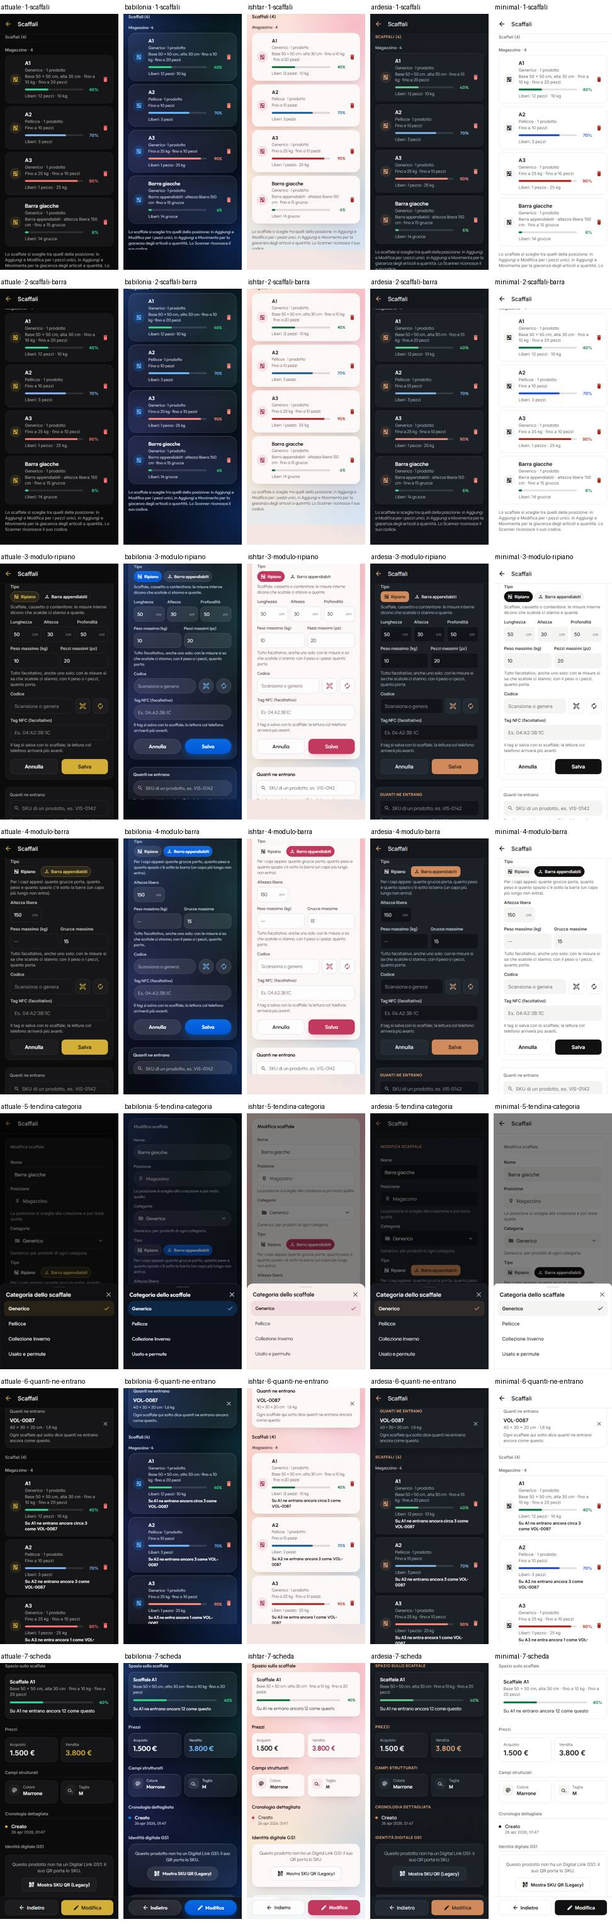
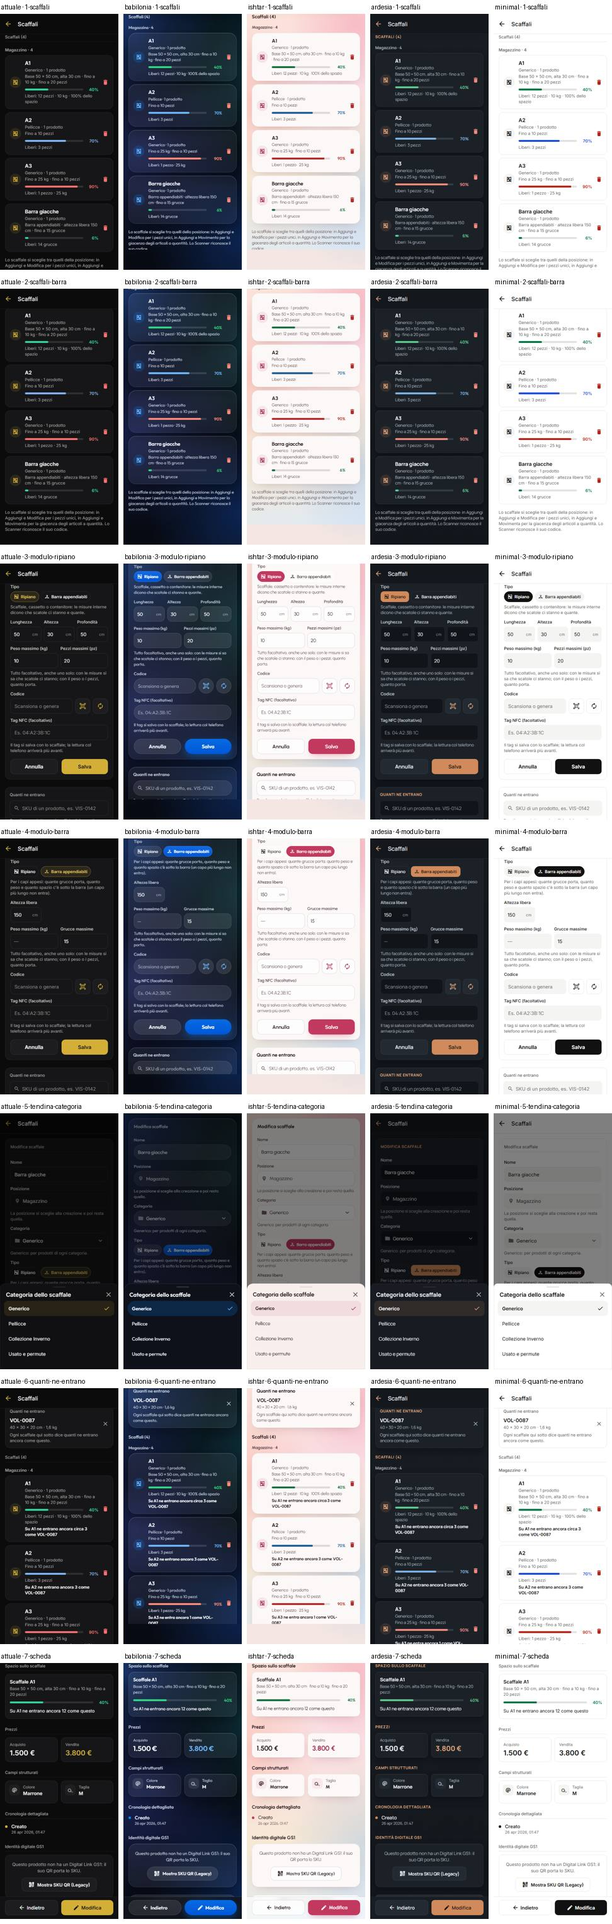
fix(magazzino): S2 correzioni del revisore (ticket 14)
- L'Altezza tolta dal costruttore del modulo non torna: il layout ricorda
  in `lateFields` (facoltativo, salvato col prossimo «Salva», version
  invariata) che l'ha già proposta; con le misure tutte nascoste nasce
  nascosta. Prova nuova s2-altezza-tolta.
- Un campo di sistema abbinato per nome da un modello («Altezza» di
  Mobili, «Peso») entra nel layout come campo Base, non personalizzato
  (appendLayoutFields con gli id di sistema).
- «Quanti ne entrano»: 0 se un limite è già pieno anche quando al
  prodotto manca quel dato (prima «Pieno» accanto a «ne entrano 15»).
- Modulo dello scaffale: un numero che si arrotonda a 0 si rifiuta invece
  di salvarsi come «nessun limite».
- «Liberi» dice anche lo spazio («60% dello spazio»); «serve il peso»;
  commento di updateShelf; la ricerca della tendina si svuota chiudendo.

diff --git a/__tests__/shelves.test.ts b/__tests__/shelves.test.ts
@@ -425,6 +425,11 @@ describe('capacità degli scaffali (S2)', () => {
     const barra = { kind: 'barra' as const, maxPieces: 15, height: 150 };
     expect(fitCount(barra, box(110, 60), { pieces: 15, weight: 0, volume: 0 })).toEqual({ kind: 'numero', count: 0, by: 'pezzi' });
     expect(fitCount(barra, box(160), empty)).toEqual({ kind: 'non-entra', reason: 'è lungo 160 cm, sotto la barra ce ne sono 150' });
+    // Revisore di S2: un limite già pieno vale 0 anche se al prodotto manca il dato per quel limite
+    expect(fitCount(ripiano, box(), { pieces: 5, weight: 12, volume: 0 })).toEqual({ kind: 'numero', count: 0, by: 'peso' });
+    expect(fitCount(ripiano, box(), { pieces: 5, weight: 0, volume: 80000 })).toEqual({ kind: 'numero', count: 0, by: 'volume' });
+    expect(fitCount({ maxWeight: 10 }, box(), { pieces: 0, weight: 10, volume: 0 })).toEqual({ kind: 'numero', count: 0, by: 'peso' });
+    expect(fitCount({ maxWeight: 10 }, box(), { pieces: 0, weight: 9.9, volume: 0 })).toEqual({ kind: 'non-calcolabile', missing: 'peso' });
   });
 
   it('testi in italiano semplice, senza sigle', () => {
@@ -434,7 +439,8 @@ describe('capacità degli scaffali (S2)', () => {
     expect(fitCountText({ kind: 'numero', count: 0, by: 'pezzi' }, 'A1')).toBe('Su A1 non ne entrano altri: pezzi al massimo');
     expect(fitCountText({ kind: 'non-entra', reason: 'un lato di 60 cm è più grande di 50 cm' }, 'A1')).toBe('Su A1 non entra: un lato di 60 cm è più grande di 50 cm');
     expect(fitCountText({ kind: 'nessun-limite' }, 'A1')).toBe('A1: nessun limite');
-    expect(fitCountText({ kind: 'non-calcolabile', missing: 'peso' }, 'A1')).toBe('A1: per sapere quanti ne entrano servono il peso del prodotto');
+    expect(fitCountText({ kind: 'non-calcolabile', missing: 'peso' }, 'A1')).toBe('A1: per sapere quanti ne entrano serve il peso del prodotto');
+    expect(fitCountText({ kind: 'non-calcolabile', missing: 'misure' }, 'A1')).toBe('A1: per sapere quanti ne entrano servono le tre misure del prodotto');
     expect(capacityText(ripiano)).toBe('Base 50 × 50 cm, alta 30 cm · fino a 10 kg · fino a 20 pezzi');
     expect(capacityText({ length: 50, depth: 40 })).toBe('Base 50 × 40 cm');
     expect(capacityText({ length: 50, height: 30 })).toBe('Lunghezza 50 cm · altezza 30 cm');
@@ -442,9 +448,12 @@ describe('capacità degli scaffali (S2)', () => {
     expect(capacityText({ kind: 'barra', height: 150, maxPieces: 15 })).toBe('Barra appendiabiti · altezza libera 150 cm · fino a 15 grucce');
     expect(capacityText({ kind: 'barra' })).toBe('Barra appendiabiti');
     expect(capacityText({})).toBe('');
-    expect(freeText(ripiano, { pieces: 9, weight: 4.5, volume: 0 })).toBe('Liberi: 11 pezzi · 5,5 kg');
+    expect(freeText(ripiano, { pieces: 9, weight: 4.5, volume: 0 })).toBe('Liberi: 11 pezzi · 5,5 kg · 100% dello spazio');
+    expect(freeText({ maxPieces: 20, maxWeight: 10 }, { pieces: 9, weight: 4.5, volume: 0 })).toBe('Liberi: 11 pezzi · 5,5 kg');
     expect(freeText({ kind: 'barra', maxPieces: 15 }, { pieces: 16, weight: 0, volume: 0 })).toBe('Liberi: 0 grucce');
-    expect(freeText({ length: 50, depth: 50, height: 30 }, { pieces: 1, weight: 0, volume: 10 })).toBe('');
+    expect(freeText({ length: 50, depth: 50, height: 30 }, { pieces: 1, weight: 0, volume: 30000 })).toBe('Liberi: 60% dello spazio');
+    expect(freeText({ length: 50, depth: 50 }, { pieces: 1, weight: 0, volume: 10 })).toBe('');
+    expect(freeText(ripiano, { pieces: 1, weight: 1, volume: 80000 })).toBe('Liberi: 19 pezzi · 9 kg · 0% dello spazio');
     expect(fillText({ percent: 45, band: 'verde', full: false, by: 'pezzi' })).toBe('45%');
     expect(fillText({ percent: 100, band: 'rosso', full: true, by: 'pezzi' })).toBe('Pieno');
     expect(fillText({ percent: 110, band: 'rosso', full: true, by: 'peso' })).toBe('Pieno (110%)');
@@ -461,5 +470,8 @@ describe('capacità degli scaffali (S2)', () => {
     expect(capacityFromForm('ripiano', { maxPieces: '2,5' })).toEqual({ error: 'Pezzi massimi: scrivi un numero intero.' });
     expect(capacityFromForm('barra', { length: 'x', maxPieces: '15', height: '150' })).toEqual({ capacity: { kind: 'barra', height: 150, maxPieces: 15 } });
     expect(capacityFromForm('barra', { maxPieces: '0' })).toEqual({ error: 'Grucce massime: scrivi un numero maggiore di zero, oppure lascialo vuoto.' });
+    // Revisore di S2: un numero che si arrotonda a 0 non si salva in silenzio come «nessun limite»
+    expect(capacityFromForm('ripiano', { maxWeight: '0,0004' }).error).toMatch(/^Peso massimo: /);
+    expect(capacityFromForm('ripiano', { maxWeight: '0,0006' })).toEqual({ capacity: { maxWeight: 0.001 } });
   });
 });

diff --git a/utils/shelves.ts b/utils/shelves.ts
@@ -528,17 +528,21 @@ export function fitCount(shelf: ShelfCapacity, product: Measured, load: ShelfLoa
   if (!fit.fits) return { kind: 'non-entra', reason: fit.reason };
   const counts: [FillBy, number][] = [];
   if (positive(shelf.maxPieces)) counts.push(['pezzi', floor(shelf.maxPieces - load.pieces)]);
-  const weightLimit = positive(shelf.maxWeight);
-  if (positive(shelf.maxWeight) && positive(product.weight)) counts.push(['peso', floor((shelf.maxWeight - load.weight) / product.weight)]);
+  const weightLimit = positive(shelf.maxWeight) ? shelf.maxWeight : undefined;
+  // Un limite già pieno vale 0 anche se al prodotto manca il dato per quel limite (revisore di S2: «Pieno» accanto a
+  // «ne entrano ancora 15» si contraddicevano)
+  if (weightLimit != null && positive(product.weight)) counts.push(['peso', floor((weightLimit - load.weight) / product.weight)]);
+  else if (weightLimit != null && load.weight >= weightLimit - EPS) counts.push(['peso', 0]);
   const room = shelfVolume(shelf);
   const one = productVolume(product);
   if (room != null && one != null) counts.push(['volume', floor((room - load.volume) / one)]);
+  else if (room != null && load.volume >= room - EPS) counts.push(['volume', 0]);
   if (counts.length) {
     const [by, count] = counts.reduce((a, b) => (b[1] < a[1] ? b : a));
     return { kind: 'numero', count, by };
   }
-  if (!weightLimit && room == null) return { kind: 'nessun-limite' };
-  const missing = weightLimit && room != null ? 'peso e misure' : weightLimit ? 'peso' : 'misure';
+  if (weightLimit == null && room == null) return { kind: 'nessun-limite' };
+  const missing = weightLimit != null && room != null ? 'peso e misure' : weightLimit != null ? 'peso' : 'misure';
   return { kind: 'non-calcolabile', missing };
 }
 
@@ -555,7 +559,7 @@ export function fitCountText(result: FitCount, shelfName: string, what = 'come q
     case 'nessun-limite':
       return `${shelfName}: nessun limite`;
     case 'non-calcolabile':
-      return `${shelfName}: per sapere quanti ne entrano servono ${result.missing === 'peso' ? 'il peso' : result.missing === 'misure' ? 'le tre misure' : 'il peso o le tre misure'} del prodotto`;
+      return `${shelfName}: per sapere quanti ne entrano ${result.missing === 'peso' ? 'serve il peso' : result.missing === 'misure' ? 'servono le tre misure' : 'servono il peso o le tre misure'} del prodotto`;
     case 'numero': {
       const { count, by } = result;
       if (count === 0) {
@@ -597,7 +601,10 @@ export function capacityText(shelf: ShelfCapacity): string {
 /** Percentuale scritta accanto alla barra (UX0: il colore da solo non basta): «72%», «Pieno», «Pieno (110%)». */
 export const fillText = (fill: FillLevel): string => (!fill.full ? `${fill.percent}%` : fill.percent > 100 ? `Pieno (${fill.percent}%)` : 'Pieno');
 
-/** Spazio libero in parole, per pezzi e peso: «Liberi: 11 pezzi · 5,5 kg». '' senza questi limiti. */
+/**
+ * Spazio libero in parole: «Liberi: 11 pezzi · 5,5 kg · 60% dello spazio» (il volume in percentuale, non in cm³; quante
+ * scatole ci stanno lo dice `fitCount` con un prodotto). '' senza limiti.
+ */
 export function freeText(shelf: ShelfCapacity, load: ShelfLoad): string {
   const barra = shelf.kind === 'barra';
   const parts: string[] = [];
@@ -606,6 +613,8 @@ export function freeText(shelf: ShelfCapacity, load: ShelfLoad): string {
     parts.push(`${formatNumber(free)} ${piecesWord(free, barra)}`);
   }
   if (positive(shelf.maxWeight)) parts.push(kg(Math.max(0, round3(shelf.maxWeight - load.weight))));
+  const room = shelfVolume(shelf);
+  if (room != null) parts.push(`${floor(((room - load.volume) / room) * 100)}% dello spazio`);
   return parts.length ? `Liberi: ${parts.join(' · ')}` : '';
 }
 
@@ -638,7 +647,9 @@ export function capacityFromForm(
     if (kind === 'barra' && (key === 'length' || key === 'depth')) continue;
     const raw = (texts[key] ?? '').trim();
     if (!raw) continue;
-    const value = parseNumber(raw);
+    const parsed = parseNumber(raw);
+    // Arrotondato come si salva: «0,0004» diventerebbe 0 e lo scaffale resterebbe senza quel limite senza dirlo
+    const value = parsed == null ? undefined : round3(parsed);
     const name = capacityLabel(key, kind);
     if (value == null || !(value > 0)) return { error: `${name}: scrivi un numero maggiore di zero, oppure lascialo vuoto.` };
     if (key === 'maxPieces' && !Number.isInteger(value)) return { error: `${name}: scrivi un numero intero.` };

diff --git a/contexts/LayoutContext.tsx b/contexts/LayoutContext.tsx
@@ -4,7 +4,7 @@ import React, { createContext, useContext, useState, useEffect, ReactNode, useRe
 import AsyncStorage from '@react-native-async-storage/async-storage';
 import { useAuth } from './AuthContext';
 import { appendLayoutFields } from '../utils/templateFields';
-import { withLateBaseFields } from '../utils/templateFields';
+import { LATE_BASE_FIELD_IDS, withLateBaseFields } from '../utils/templateFields';
 
 // Types
 export type FieldSize = 'small' | 'medium' | 'full'; // 33%, 50%, 100%
@@ -21,6 +21,8 @@ export interface LayoutField {
 export interface LayoutConfig {
     fields: LayoutField[];
     version: number;
+    /** S2: campi Base nati dopo già proposti a questo layout (`withLateBaseFields`): tolti dall'utente non tornano. */
+    lateFields?: string[];
 }
 
 // Layout fields rely on CustomFieldsContext for their base definitions (name, icon).
@@ -56,6 +58,7 @@ const DEFAULT_LAYOUT: LayoutConfig = {
         { id: 'technicalNotes', type: 'base', size: 'full', visible: true },
     ],
     version: 4, // Fix sku full per banda nera in Add
+    lateFields: [...LATE_BASE_FIELD_IDS], // S2: l'Altezza c'è già qui sopra
 };
 
 // Titoli delle sezioni predefinite con l'iniziale maiuscola (ritocco del ticket 08), solo quando si mostrano: i dati
@@ -84,7 +87,7 @@ interface LayoutContextType {
     updateFieldSize: (fieldId: string, size: FieldSize) => void;
     toggleFieldVisibility: (fieldId: string) => void;
     addFieldToLayout: (field: LayoutField) => void;
-    appendToLayout: (ids: string[], size?: FieldSize) => Promise<LayoutField[]>;
+    appendToLayout: (ids: string[], size?: FieldSize, baseIds?: string[]) => Promise<LayoutField[]>;
     removeFieldFromLayout: (fieldId: string) => void;
     applyTemplate: (templateFields: LayoutField[]) => void;
 
@@ -131,8 +134,12 @@ export function LayoutProvider({ children }: { children: ReactNode }) {
                 } else {
                     // S2 (ticket 14): «Altezza» anche nei layout salvati prima, solo in memoria: il layout salvato non
                     // si riscrive e la `version` non cambia (vincolo 1 di map-3); si salva con il prossimo «Salva»
-                    const fields = Array.isArray(parsed.fields) ? withLateBaseFields(parsed.fields) : parsed.fields;
-                    setLayout(fields === parsed.fields ? parsed : { ...parsed, fields });
+                    // `lateFields` ricorda (in memoria, salvato col prossimo «Salva») che l'Altezza è stata proposta: tolta
+                    // dall'utente non torna (revisore di S2)
+                    const offered: string[] = Array.isArray(parsed.lateFields) ? parsed.lateFields : [];
+                    const fields = Array.isArray(parsed.fields) ? withLateBaseFields(parsed.fields, offered) : parsed.fields;
+                    const allOffered = LATE_BASE_FIELD_IDS.every((id) => offered.includes(id));
+                    setLayout(fields === parsed.fields && allOffered ? parsed : { ...parsed, fields, lateFields: [...new Set([...offered, ...LATE_BASE_FIELD_IDS])] });
                 }
             }
         } catch (error) {
@@ -189,8 +196,8 @@ export function LayoutProvider({ children }: { children: ReactNode }) {
 
     // Mette in fondo al layout i campi che mancano e lo salva subito (campi nuovi e modelli: D12, P11).
     // Parte dal layout più recente (`layoutRef`), così più chiamate di seguito non si sovrascrivono.
-    const appendToLayout = async (ids: string[], size: FieldSize = 'medium') => {
-        const next = { ...layoutRef.current, fields: appendLayoutFields(layoutRef.current.fields, ids, size) };
+    const appendToLayout = async (ids: string[], size: FieldSize = 'medium', baseIds: string[] = []) => {
+        const next = { ...layoutRef.current, fields: appendLayoutFields(layoutRef.current.fields, ids, size, baseIds) };
         layoutRef.current = next;
         setLayout(next);
         if (organizationId) await AsyncStorage.setItem(`${STORAGE_KEY}:${organizationId}`, JSON.stringify(next));

diff --git a/utils/templateFields.ts b/utils/templateFields.ts
@@ -17,10 +17,15 @@ export function matchTemplateFields<T extends { name: string }>(
     .map((field) => ({ field, existingId: byName.get(key(field.name)) }));
 }
 
-/** Aggiunge in fondo al layout i campi che non ci sono già, visibili e della misura data. */
-export function appendLayoutFields(current: readonly LayoutField[], ids: readonly string[], size: FieldSize = 'medium'): LayoutField[] {
+/**
+ * Aggiunge in fondo al layout i campi che non ci sono già, visibili e della misura data. `baseIds`: i campi di sistema
+ * (un modello che abbina per nome «Altezza» o «Peso» a un campo Base lo mette come Base, non come personalizzato:
+ * altrimenti Aggiungi lo salverebbe nei dati personalizzati e non nel campo del prodotto).
+ */
+export function appendLayoutFields(current: readonly LayoutField[], ids: readonly string[], size: FieldSize = 'medium', baseIds: readonly string[] = []): LayoutField[] {
   const present = new Set(current.map((f) => f.id));
-  const added = [...new Set(ids)].filter((id) => !present.has(id)).map((id) => ({ id, type: 'custom' as const, size, visible: true }));
+  const added = [...new Set(ids)].filter((id) => !present.has(id))
+    .map((id) => ({ id, type: baseIds.includes(id) ? 'base' as const : 'custom' as const, size, visible: true }));
   return [...current, ...added];
 }
 
@@ -31,19 +36,24 @@ export function appendLayoutFields(current: readonly LayoutField[], ids: readonl
 const LATE_BASE_FIELDS: { id: string; after: readonly string[]; size: FieldSize }[] = [
   { id: 'height', after: ['length', 'width', 'weight'], size: 'small' },
 ];
+/** Id dei campi Base nati dopo: il layout li ricorda in `lateFields` una volta proposti. */
+export const LATE_BASE_FIELD_IDS: readonly string[] = LATE_BASE_FIELDS.map((f) => f.id);
 
 /**
  * Layout letto con i campi Base nuovi, **solo in memoria**: chi lo chiama non lo riscrive e la `version` non cambia
  * (vincolo 1 di map-3, che sostituirebbe il modulo dell'utente). Stesso array se non manca niente.
+ * `offered`: campi già proposti a questo layout (`lateFields` salvato): un campo che l'utente ha tolto non torna.
+ * Il campo nuovo è visibile se lo è almeno una delle misure accanto (misure tutte nascoste: nascosto anche lui).
  */
-export function withLateBaseFields(fields: LayoutField[]): LayoutField[] {
+export function withLateBaseFields(fields: LayoutField[], offered: readonly string[] = []): LayoutField[] {
   let out = fields;
   for (const late of LATE_BASE_FIELDS) {
-    if (out.some((f) => f.id === late.id)) continue;
+    if (offered.includes(late.id) || out.some((f) => f.id === late.id)) continue;
     let at = -1;
     out.forEach((f, i) => { if (late.after.includes(f.id)) at = i; });
     if (at < 0) continue;
-    out = [...out.slice(0, at + 1), { id: late.id, type: 'base', size: late.size, visible: true }, ...out.slice(at + 1)];
+    const visible = out.some((f) => late.after.includes(f.id) && f.visible);
+    out = [...out.slice(0, at + 1), { id: late.id, type: 'base', size: late.size, visible }, ...out.slice(at + 1)];
   }
   return out;
 }

diff --git a/__tests__/templateFields.test.ts b/__tests__/templateFields.test.ts
@@ -1,4 +1,4 @@
-import { appendLayoutFields, matchTemplateFields, withLateBaseFields } from '../utils/templateFields';
+import { appendLayoutFields, LATE_BASE_FIELD_IDS, matchTemplateFields, withLateBaseFields } from '../utils/templateFields';
 
 describe('matchTemplateFields (D12)', () => {
   const existing = [
@@ -22,6 +22,10 @@ describe('appendLayoutFields (D12, P11)', () => {
     expect(out[1]).toEqual(current[1]); // quello già presente non cambia
     expect(out[2]).toEqual({ id: 'f9', type: 'custom', size: 'medium', visible: true });
   });
+  it('revisore di S2: un campo di sistema abbinato da un modello entra come Base', () => {
+    const out = appendLayoutFields(current, ['height', 'f9'], 'medium', ['height', 'weight']);
+    expect(out.slice(2)).toEqual([{ id: 'height', type: 'base', size: 'medium', visible: true }, { id: 'f9', type: 'custom', size: 'medium', visible: true }]);
+  });
 });
 
 describe('withLateBaseFields (S2, «Altezza» nei layout salvati prima)', () => {
@@ -39,5 +43,14 @@ describe('withLateBaseFields (S2, «Altezza» nei layout salvati prima)', () => 
     expect(withLateBaseFields(withHeight)).toBe(withHeight);
     const noMeasures = [f('sku'), f('technicalNotes')];
     expect(withLateBaseFields(noMeasures)).toBe(noMeasures);
+  });
+  it('revisore di S2: tolta dall’utente non torna; con le misure tutte nascoste nasce nascosta', () => {
+    expect(LATE_BASE_FIELD_IDS).toEqual(['height']);
+    const removed = [f('length'), f('width'), f('weight')];
+    expect(withLateBaseFields(removed, ['height'])).toBe(removed);
+    const hidden = [f('length', 'base', false), f('width', 'base', false), f('weight', 'base', false)];
+    expect(withLateBaseFields(hidden)[3]).toEqual({ id: 'height', type: 'base', size: 'small', visible: false });
+    const oneVisible = [f('length', 'base', false), f('weight')];
+    expect(withLateBaseFields(oneVisible)[2].visible).toBe(true);
   });
 });

diff --git a/components/CategorySelect.tsx b/components/CategorySelect.tsx
@@ -39,10 +39,13 @@ export function CategorySelect({
     return q ? all.filter((r) => fold(r.path).includes(q)) : all;
   }, [categories, noneLabel, query]);
 
-  const choose = (id: string) => {
-    onChange(id);
+  const close = () => {
     setOpen(false);
     setQuery('');
+  };
+  const choose = (id: string) => {
+    onChange(id);
+    close();
   };
 
   return (
@@ -52,14 +55,14 @@ export function CategorySelect({
         <Text style={styles.valueText} numberOfLines={1}>{shown}</Text>
         <AppIcon name="expand-more" size={22} color={t.colors.textSecondary} />
       </Pressable>
-      <Modal visible={open} transparent animationType="slide" onRequestClose={() => setOpen(false)}>
+      <Modal visible={open} transparent animationType="slide" onRequestClose={close}>
         <View style={styles.overlay}>
-          <Pressable style={styles.backdrop} onPress={() => setOpen(false)} accessibilityLabel="Chiudi la scelta della categoria" />
+          <Pressable style={styles.backdrop} onPress={close} accessibilityLabel="Chiudi la scelta della categoria" />
           <View style={styles.sheet}>
             <View style={styles.handle} />
             <View style={styles.headerRow}>
               <Text style={styles.title}>{label}</Text>
-              <Pressable onPress={() => setOpen(false)} hitSlop={8} accessibilityLabel="Chiudi">
+              <Pressable onPress={close} hitSlop={8} accessibilityLabel="Chiudi">
                 <AppIcon name="close" size={24} color={t.colors.textSecondary} />
               </Pressable>
             </View>

diff --git a/contexts/ShelvesContext.tsx b/contexts/ShelvesContext.tsx
@@ -15,7 +15,8 @@ interface ShelvesContextType {
   loading: boolean;
   /** Aggiunge uno scaffale (nome, posizione e codice vanno controllati prima) e lo restituisce. */
   addShelf: (data: ShelfInput) => Promise<Shelf>;
-  /** Cambia nome, categoria, codice e tag; la posizione resta quella della creazione. */
+  /** Sostituisce nome, categoria, codice, tag e capacità (S2) con quelli dati: chi chiama passa lo scaffale intero
+   *  (un campo che manca si toglie). La posizione resta quella della creazione. */
   updateShelf: (id: string, data: Omit<ShelfInput, 'locationId'>) => Promise<void>;
   /** Elimina (chi chiama controlla prima che sia vuoto, `shelfDeleteError`). */
   deleteShelf: (id: string) => Promise<void>;

diff --git a/hooks/useInstallFields.ts b/hooks/useInstallFields.ts
@@ -19,7 +19,8 @@ export function useInstallFields() {
         created += 1;
       }
     }
-    const layoutFields = await appendToLayout(ids, size);
+    // S2 (revisore): un campo del modello abbinato a un campo di sistema («Altezza», «Peso») entra nel layout come Base
+    const layoutFields = await appendToLayout(ids, size, customFields.filter((f) => f.isSystem).map((f) => f.id));
     return { created, existing: ids.length - created, layoutFields };
   };
 }

diff --git a/piani di implementazione/funzionalita/issues/14-scaffale-capacita.md b/piani di implementazione/funzionalita/issues/14-scaffale-capacita.md
@@ -83,8 +83,9 @@ Aggiunte a S2 (corsia B, orchestratore 5): misure, peso e pezzi tutti facoltativ
 - **Dati** (`utils/shelves.ts`): `Shelf` con `kind?: 'barra'` (assente = ripiano; «ripiano» non si salva), `length`, `depth`, `height` (cm), `maxWeight` (kg), `maxPieces`, tutti facoltativi. `shelfCapacity` tiene solo numeri positivi (pezzi interi), per la barra non tiene lunghezza e profondità; passa da `shelfData`, quindi da `parseShelves`, `addShelf` e `updateShelf`. Uno scaffale di prima si rilegge e si risalva **identico** (test jest e `s2-dati`). Nomi dei campi `length`/`depth`/`height` come le parole dell'utente del 24, invece di `width` del piano: il controllo gira la scatola, quindi il nome non cambia il calcolo.
 - **Funzioni pure** con i test (`__tests__/shelves.test.ts`, 12 casi nuovi): `fitsShelf` (lati dal più grande, lato mancante al prodotto non controllato, lato mancante al ripiano senza limite; barra: lato più lungo sotto l'altezza libera; peso di un pezzo; motivo in una riga: «un lato di 60 cm è più grande di 50 cm», «è lungo 120 cm, sotto la barra ce ne sono 100», «pesa 12 kg, lo scaffale ne regge 10»), `shelfLoad` (pezzi, kg e cm³ da `qtyAt` sulla chiave `posizione/scaffale`: pezzo unico disponibile 1, venduti e cestino 0), `shelvesOfProduct`, `fillLevel` (il più alto dei tre; percentuale per difetto; verde ≤ 50, blu ≤ 80, rosso oltre, pieno ≥ 100), `fitCount` (minimo tra pezzi liberi, peso libero / peso, volume libero / volume; esiti `non-entra`, `numero` anche 0, `nessun-limite`, `non-calcolabile`), testi `fitCountText` («Su A1 ne entrano ancora 5 come questo», «circa» quando decide il volume), `capacityText`, `fillText`, `freeText`, `measuresText`, `capacityFromForm`.
 - **Impostazioni › Scaffali** (con la revisione UX0 dell'orchestratore 5, `N/ux0/piano-fette.md` blocco S2): «Tipo» Ripiano / Barra appendiabiti; le misure in **una riga** a 1/3 con «cm» dentro il campo (Lunghezza, Altezza, Profondità; la barra solo Altezza libera), poi **«Peso massimo (kg)» e «Pezzi massimi (pz)» affiancati** (barra: Grucce massime), tutti facoltativi, un numero sbagliato rifiutato col nome del campo; **categoria a tendina** (`components/CategorySelect.tsx`, finestra dal basso con «Generico» per primo; la spiegazione dello scaffale generico solo quando è scelto); **«Codice»** con il segnaposto «Si crea da solo»: alla creazione un codice vuoto nasce al salvataggio da posizione e nome (`suggestShelfCode`, come farà ETI con la finestra «Codice ed etichetta»); nella riga dello scaffale «Base 50 × 50 cm, alta 30 cm · fino a 10 kg · fino a 20 pezzi», la barra del riempimento alta 6 con la percentuale scritta accanto («72%», «Pieno»; `components/ShelfFill.tsx`, colori dai ruoli successo, informazione, errore) e «Liberi: 11 pezzi · 5,5 kg»; riquadro **«Quanti ne entrano»** con un prodotto di prova (SKU): ogni scaffale dice «Su A1 ne entrano ancora circa 3 come VOL-0087», «Su A1 non entra: …» o «A2: nessun limite». Uno scaffale senza misure resta com'era (nessuna riga in più). Resta a UX1: l'elenco prima del modulo, col modulo in una finestra dal basso (R15).
-- **Altezza del prodotto**: `Product.height` (cm), campo Base «Altezza» nel registro (`SYSTEM_FIELDS`, ordine 9,5 tra Peso e Note) e nel layout predefinito dopo il Peso; nei layout già salvati la mette `withLateBaseFields` (`utils/templateFields.ts`) **solo in memoria**, dopo l'ultima misura, senza riscrivere il layout né alzare `version` (vincolo 1); Aggiungi (blocco `case 'height'`), Modifica (riga a sé sotto le misure), Scheda (riquadro «Altezza»), Cronologia («Altezza: 42,5 → 45»), CSV (colonna «Altezza» **in fondo**, dopo «Scaffale»; un CSV di prima senza la colonna dà un prodotto senza altezza).
+- **Altezza del prodotto**: `Product.height` (cm), campo Base «Altezza» nel registro (`SYSTEM_FIELDS`, ordine 9,5 tra Peso e Note) e nel layout predefinito dopo il Peso; nei layout già salvati la mette `withLateBaseFields` (`utils/templateFields.ts`) **solo in memoria**, dopo l'ultima misura (nascosta se lo sono tutte le misure), senza riscrivere il layout né alzare `version` (vincolo 1); il layout ricorda in `lateFields` che l'ha proposta, così tolta dall'utente non torna; un modello che abbina «Altezza» per nome la mette come campo Base; Aggiungi (blocco `case 'height'`), Modifica (riga a sé sotto le misure), Scheda (riquadro «Altezza»), Cronologia («Altezza: 42,5 → 45»), CSV (colonna «Altezza» **in fondo**, dopo «Scaffale»; un CSV di prima senza la colonna dà un prodotto senza altezza).
 - **Scheda**: riquadro «Spazio sullo scaffale» (`components/ShelfSpace.tsx`) per gli scaffali con misure o limiti su cui il prodotto sta: misure, barra e «Su A1 ne entrano ancora N come questo» (o il motivo per cui non entra).
 - **Barra appendiabiti**: in **grucce** (proposta di `map-3.md`, decisa dall'orchestratore al posto dell'utente, 24/11).
-- **Prova** `prova/s2-capacita.cjs` (7 scenari): `s2-ripiano`, `s2-barra`, `s2-riempimento` (0, 50, 80, 100%: verde, verde, blu, rosso «Pieno», tre colori diversi, testo dello stesso colore della barra), `s2-quanti`, `s2-dati`, `s2-altezza`, `s2-scheda`. Collaudo: parti S2 di CF-D1, CF-D2, CF-D5. Foglio dei 5 stili `prova/stili-s2.jpg`.
+- **Revisore** (dopo `71760ee`): corretti l'Altezza tolta che tornava, l'Altezza visibile con le misure nascoste, un campo di sistema da un modello messo come personalizzato, «quanti ne entrano» con un limite già pieno (ora 0), un numero minuscolo salvato come «nessun limite» (ora rifiutato), «Liberi» senza lo spazio (ora «60% dello spazio»).
+- **Prova** `prova/s2-capacita.cjs` (8 scenari, con `s2-altezza-tolta` del revisore): `s2-ripiano`, `s2-barra`, `s2-riempimento` (0, 50, 80, 100%: verde, verde, blu, rosso «Pieno», tre colori diversi, testo dello stesso colore della barra), `s2-quanti`, `s2-dati`, `s2-altezza`, `s2-scheda`. Collaudo: parti S2 di CF-D1, CF-D2, CF-D5. Foglio dei 5 stili `prova/stili-s2.jpg`.
 - Da sapere: i prodotti del campionario hanno lunghezza, larghezza e peso ma **non l'altezza**, quindi per loro il volume non conta finché non la si scrive; misurano tutti 98-120 cm, quindi su un ripiano da 50 cm «non entrano» (vero: sono capi lunghi, vanno sulla barra).
